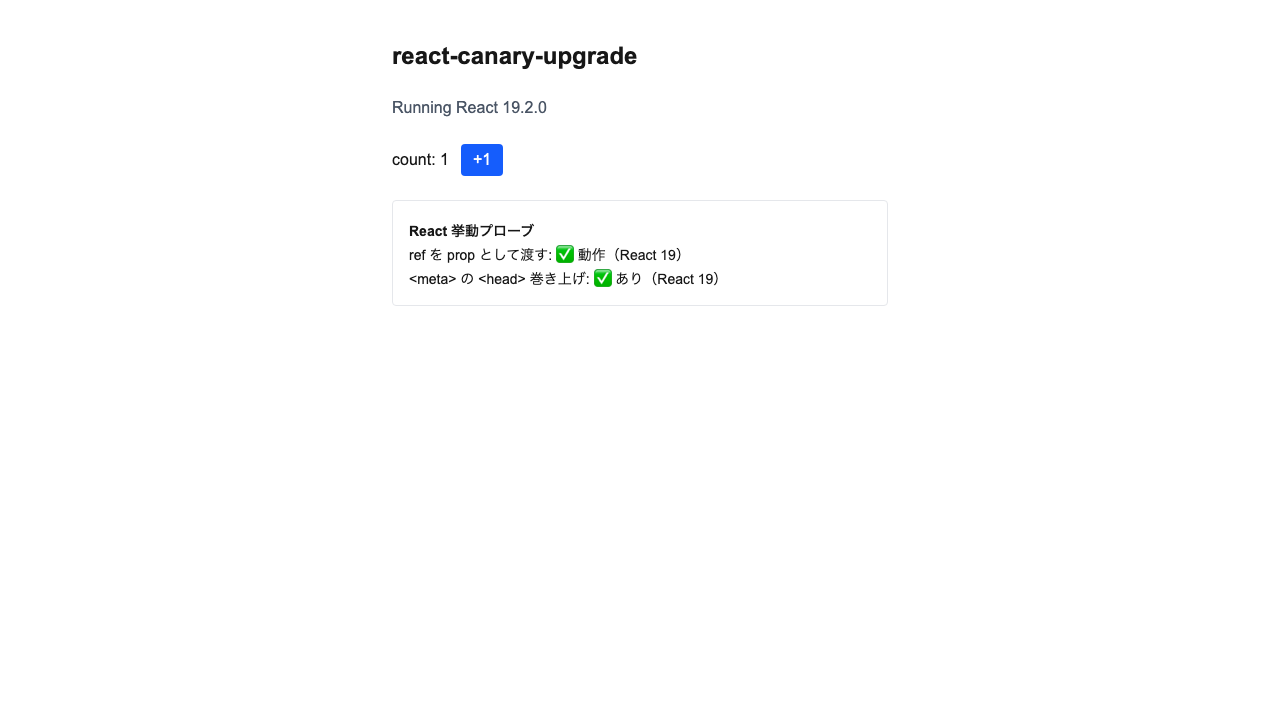
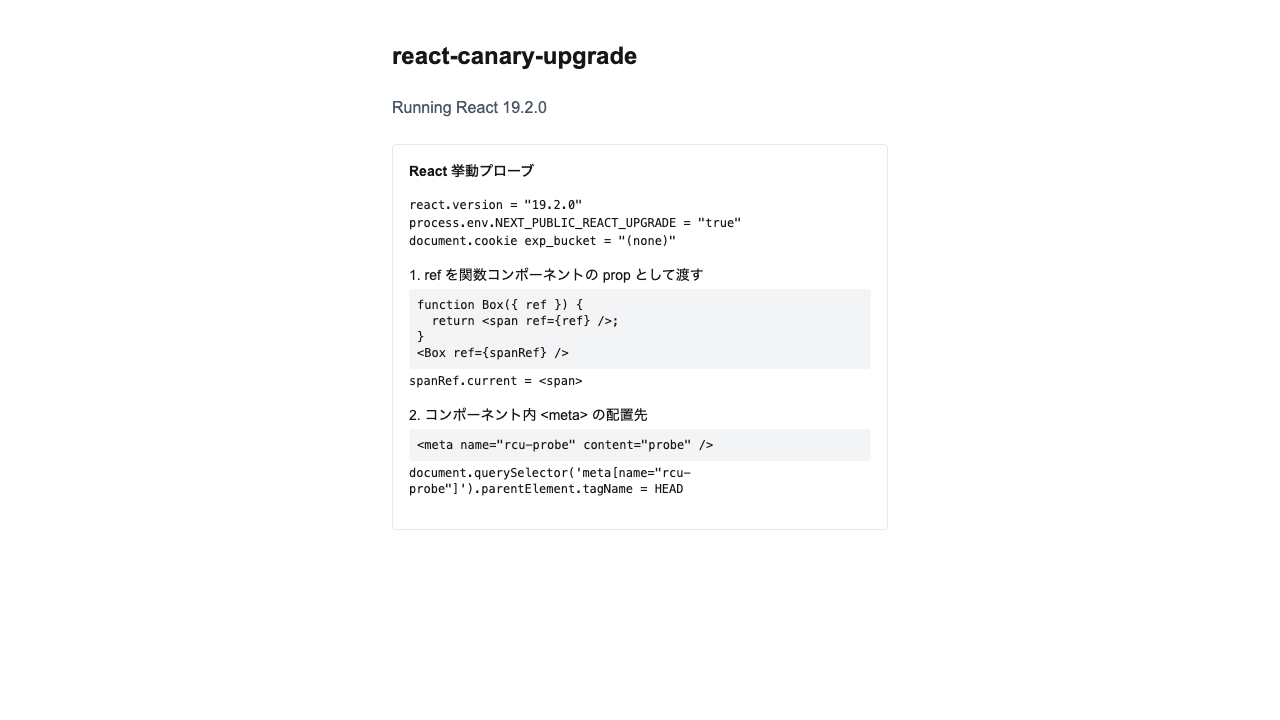
refactor: probe shows code + observed values + env (no emoji); drop Counter
挙動プローブを判定文/絵文字から、実行したコード・観測値(spanRef.current, meta の
parentElement.tagName)・実行環境(react.version, NEXT_PUBLIC_REACT_UPGRADE, cookie)の
生表示に変更。デモに不要な Counter とテストを削除し index/e2e から参照を除去。

diff --git a/src/components/BehaviorProbe.tsx b/src/components/BehaviorProbe.tsx
@@ -1,52 +1,93 @@
-import { createElement, type Ref, useEffect, useRef, useState } from "react";
+import {
+  createElement,
+  type Ref,
+  useEffect,
+  useRef,
+  useState,
+  version,
+} from "react";
 
 // React 19 は ref を通常の prop として関数コンポーネントに渡せる（forwardRef 不要）。
-// React 18 では ref は特別扱いされ関数コンポーネントには渡らない（null + 警告）。
+// React 18 では ref は特別扱いされ関数コンポーネントには渡らない。
 function RefAsProp(props: { ref?: Ref<HTMLSpanElement> }) {
   return <span ref={props.ref} />;
 }
 
-function label(v: boolean | null, yes: string, no: string): string {
-  if (v === null) return "判定中…";
-  return v ? yes : no;
+const REF_CODE = `function Box({ ref }) {
+  return <span ref={ref} />;
 }
+<Box ref={spanRef} />`;
+
+const META_CODE = `<meta name="rcu-probe" content="probe" />`;
 
 /**
- * 実行中の React が 18 か 19 かを「挙動」で炙り出すプローブ。
- * 同一コードが React のバージョン差でだけ結果を変える。
+ * 実行中の React が 18 か 19 かを「挙動」で観測するプローブ。
+ * 判定文ではなく、実行したコードと実際に観測した値・実行環境をそのまま表示する。
  */
 export function BehaviorProbe() {
-  const ref = useRef<HTMLSpanElement>(null);
-  const [refAsProp, setRefAsProp] = useState<boolean | null>(null);
-  const [metaHoisted, setMetaHoisted] = useState<boolean | null>(null);
+  const spanRef = useRef<HTMLSpanElement>(null);
+  const [refResult, setRefResult] = useState("(評価前)");
+  const [metaParent, setMetaParent] = useState("(評価前)");
+  const [bucket, setBucket] = useState("(評価前)");
 
   useEffect(() => {
-    // React 19: ref が関数コンポーネントに渡り current が埋まる / React 18: null のまま
-    setRefAsProp(ref.current !== null);
-    // React 19: コンポーネント内の <meta> が <head> へ巻き上げられる / React 18: body に残る
-    setMetaHoisted(
-      document.head.querySelector('meta[name="rcu-probe"]') !== null,
-    );
+    const el = spanRef.current;
+    setRefResult(el ? `<${el.tagName.toLowerCase()}>` : "null");
+    const meta = document.querySelector('meta[name="rcu-probe"]');
+    setMetaParent(meta?.parentElement?.tagName ?? "(not found)");
+    const m = document.cookie.match(/(?:^|; )exp_bucket=(control|treatment)/);
+    setBucket(m?.[1] ?? "(none)");
   }, []);
 
   return (
     <section
       data-testid="behavior-probe"
-      className="flex flex-col gap-1 rounded border border-gray-200 p-4 text-sm"
+      className="flex flex-col gap-4 rounded border border-gray-200 p-4 text-sm"
     >
-      {/* ref-as-prop プローブ（ref を特別扱いさせるため createElement で渡す） */}
-      {createElement(RefAsProp, { ref } as { ref?: Ref<HTMLSpanElement> })}
-      {/* head 巻き上げプローブ */}
-      <meta name="rcu-probe" content="probe" />
       <h2 className="font-semibold">React 挙動プローブ</h2>
-      <p data-testid="probe-ref">
-        ref を prop として渡す:{" "}
-        {label(refAsProp, "✅ 動作（React 19）", "❌ null（React 18）")}
-      </p>
-      <p data-testid="probe-meta">
-        {"<meta> の <head> 巻き上げ: "}
-        {label(metaHoisted, "✅ あり（React 19）", "❌ なし（React 18）")}
-      </p>
+
+      <div
+        data-testid="probe-env"
+        className="flex flex-col gap-0.5 font-mono text-xs"
+      >
+        <span>react.version = "{version}"</span>
+        <span>
+          process.env.NEXT_PUBLIC_REACT_UPGRADE = "
+          {process.env.NEXT_PUBLIC_REACT_UPGRADE}"
+        </span>
+        <span>document.cookie exp_bucket = "{bucket}"</span>
+      </div>
+
+      <div className="flex flex-col gap-1">
+        <p className="font-medium">
+          1. ref を関数コンポーネントの prop として渡す
+        </p>
+        <pre className="overflow-x-auto rounded bg-gray-100 p-2 text-xs">
+          <code>{REF_CODE}</code>
+        </pre>
+        <p data-testid="probe-ref" className="font-mono text-xs">
+          spanRef.current = {refResult}
+        </p>
+      </div>
+
+      <div className="flex flex-col gap-1">
+        <p className="font-medium">2. コンポーネント内 {"<meta>"} の配置先</p>
+        <pre className="overflow-x-auto rounded bg-gray-100 p-2 text-xs">
+          <code>{META_CODE}</code>
+        </pre>
+        <p data-testid="probe-meta" className="font-mono text-xs">
+          {
+            "document.querySelector('meta[name=\"rcu-probe\"]').parentElement.tagName = "
+          }
+          {metaParent}
+        </p>
+      </div>
+
+      {/* 実プローブ: ref を特別扱いさせるため createElement で渡す */}
+      {createElement(RefAsProp, { ref: spanRef } as {
+        ref?: Ref<HTMLSpanElement>;
+      })}
+      <meta name="rcu-probe" content="probe" />
     </section>
   );
 }

diff --git a/e2e/visual.spec.ts b/e2e/visual.spec.ts
@@ -1,41 +1,40 @@
 import { expect, test } from "@playwright/test";
 
 const variant = process.env.E2E_VARIANT ?? "control";
-const expectedMajor = variant === "treatment" ? "19" : "18";
+const isTreatment = variant === "treatment";
+const expectedMajor = isTreatment ? "19" : "18";
 
 // ブラウザ（クライアント）で実際に動く React のメジャーバージョンを検証する。
-// npm-alias により control=18 / treatment=19 がハイドレーション後 DOM に反映される。
 test(`client runs React ${expectedMajor} [${variant}]`, async ({ page }) => {
   await page.goto("/");
-  await expect(page.getByRole("button", { name: "increment" })).toBeVisible();
+  await expect(page.getByTestId("behavior-probe")).toBeVisible();
   await expect(page.getByTestId("react-version")).toContainText(
     `React ${expectedMajor}.`,
   );
 });
 
-// React 18→19 の breaking change（ref を prop で渡す / <meta> の head 巻き上げ）が
-// 挙動として現れることを検証する。同一コードがバージョン差でだけ結果を変える。
+// React 18→19 の breaking change（ref を prop で渡す / <meta> の配置先）が
+// 観測値として現れることを検証する。
 test(`react behavior reflects ${expectedMajor} [${variant}]`, async ({
   page,
 }) => {
   await page.goto("/");
-  const marker = `React ${expectedMajor}`;
-  await expect(page.getByTestId("probe-ref")).toContainText(marker);
-  await expect(page.getByTestId("probe-meta")).toContainText(marker);
+  const ref = page.getByTestId("probe-ref");
+  const meta = page.getByTestId("probe-meta");
+  if (isTreatment) {
+    await expect(ref).toContainText("spanRef.current = <span>");
+    await expect(meta).toContainText("= HEAD"); // <head> へ巻き上げ
+  } else {
+    await expect(ref).toContainText("spanRef.current = null");
+    await expect(meta).not.toContainText("= HEAD"); // 巻き上げられず描画位置に残る
+  }
 });
 
-// 同一コードが両 React バージョンで機能することを実ブラウザで検証する。
-test(`counter increments [${variant}]`, async ({ page }) => {
-  await page.goto("/");
-  await page.getByRole("button", { name: "increment" }).click();
-  await expect(page.getByRole("status")).toHaveText("count: 1");
-});
-
-// React バージョン表記は control/treatment で異なるため mask し、
+// バージョン依存の表示（version 行・挙動プローブ）は mask し、
 // レイアウト・描画の回帰のみを control の baseline と比較する。
 test(`home page renders consistently [${variant}]`, async ({ page }) => {
   await page.goto("/");
-  await expect(page.getByRole("button", { name: "increment" })).toBeVisible();
+  await expect(page.getByTestId("behavior-probe")).toBeVisible();
   await expect(page).toHaveScreenshot("home.png", {
     mask: [
       page.getByTestId("react-version"),

diff --git a/src/pages/index.tsx b/src/pages/index.tsx
@@ -1,6 +1,5 @@
 import { version } from "react";
 import { BehaviorProbe } from "@/components/BehaviorProbe";
-import { Counter } from "@/components/Counter";
 
 export default function Home() {
   return (
@@ -9,7 +8,6 @@ export default function Home() {
       <p data-testid="react-version" className="text-gray-600">
         Running React {version}
       </p>
-      <Counter />
       <BehaviorProbe />
     </main>
   );

diff --git a/README.md b/README.md
@@ -18,14 +18,15 @@ Airbnb の記事 [How Airbnb Smoothly Upgrades React](https://medium.com/airbnb-
 
 ### 挙動による証明（バージョン文字列だけに頼らない）
 
-`BehaviorProbe` が React 18→19 の breaking change を実行時に判定して画面に表示する。同一コードがバージョン差でだけ結果を変えるため、18/19 が本当に動いていることを挙動で示せる:
+`BehaviorProbe` が React 18→19 の breaking change を実行時に走らせ、**実行したコードと観測値・実行環境をそのまま画面に表示**する（判定文や絵文字ではなく生の値）。同一コードがバージョン差でだけ観測値を変えるため、18/19 が本当に動いていることを示せる:
 
-| プローブ | React 18 (control) | React 19 (treatment) |
+| 観測対象 | React 18 (control) | React 19 (treatment) |
 | --- | --- | --- |
-| `ref` を関数コンポーネントに prop として渡す | ❌ null（forwardRef 必須） | ✅ 動作（ref が通常の prop に） |
-| コンポーネント内の `<meta>` の `<head>` 巻き上げ | ❌ body に残る | ✅ head へ自動巻き上げ |
+| `ref` を関数コンポーネントの prop で渡したときの `spanRef.current` | `null` | `<span>` |
+| コンポーネント内 `<meta>` の `parentElement.tagName` | `SECTION`（描画位置に残る） | `HEAD`（`<head>` へ巻き上げ） |
+| `process.env.NEXT_PUBLIC_REACT_UPGRADE`（ビルド環境） | `"false"` | `"true"` |
 
-Playwright e2e（`e2e/visual.spec.ts`）が、control を baseline に treatment のレイアウト一致・Counter 動作・クライアント React メジャー・上記プローブ挙動を検証する。
+Playwright e2e（`e2e/visual.spec.ts`）が、control を baseline に treatment のレイアウト一致・クライアント React メジャー・上記プローブ観測値を検証する。
 
 ## Next.js での注意点（重要な学び）
 
